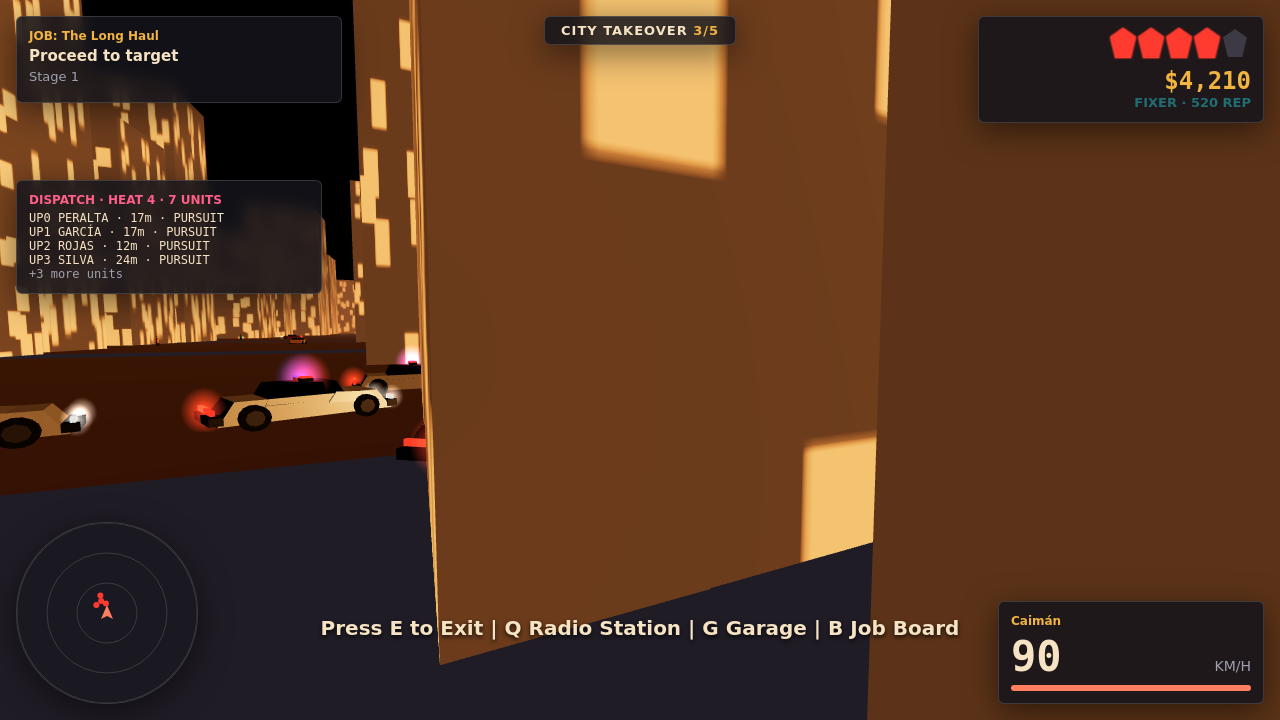
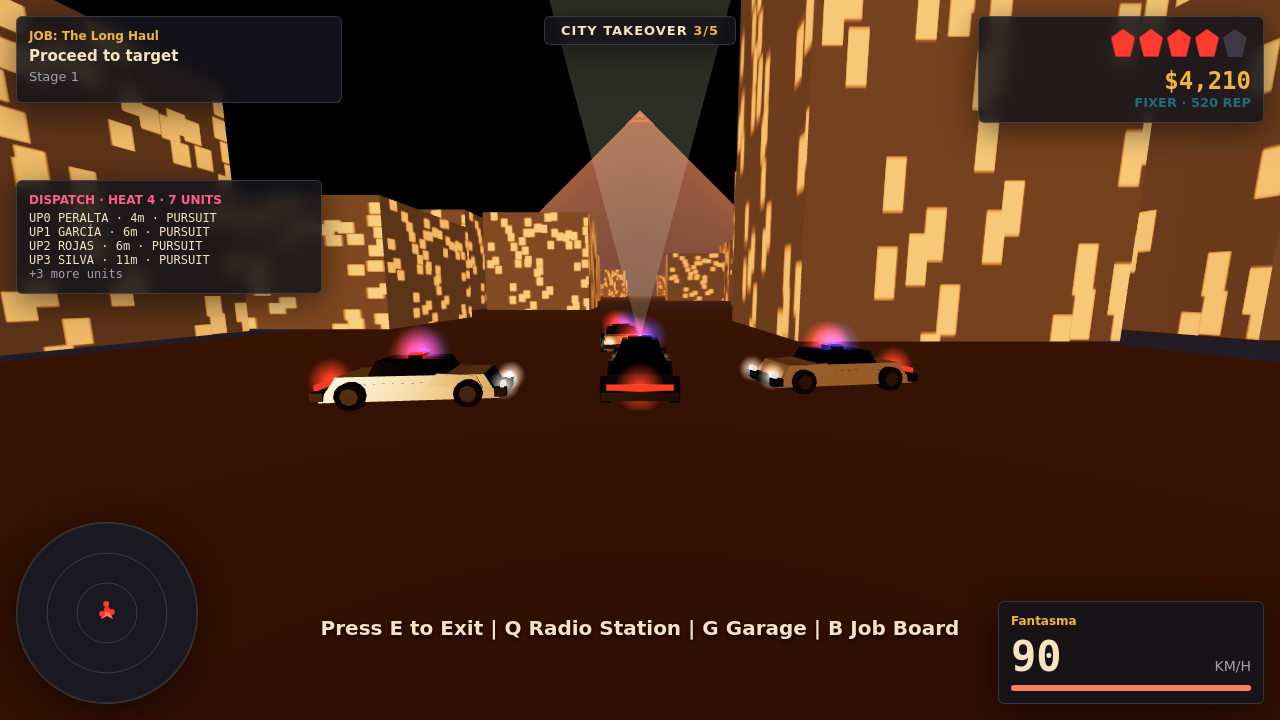
Lively M16: cover reshoot at spawn boulevard

diff --git a/game/main.js b/game/main.js
@@ -286,6 +286,23 @@ window.__calderaTest = {
     }
     return results;
   },
+  projectCar() {
+    camera.updateMatrixWorld();
+    if (!player.car || !player.car.mesh) return null;
+    const w = renderer.domElement.width || window.innerWidth;
+    const h = renderer.domElement.height || window.innerHeight;
+    const v = new THREE.Vector3();
+    player.car.mesh.getWorldPosition(v);
+    v.project(camera);
+    const sx = (v.x * 0.5 + 0.5) * w;
+    const sy = (-(v.y * 0.5) + 0.5) * h;
+    const inFrustum = v.z >= -1 && v.z <= 1 && sx >= 0 && sx <= w && sy >= 0 && sy <= h;
+    return {
+      x: Math.round((sx / w) * 100),
+      y: Math.round((sy / h) * 100),
+      inFrustum
+    };
+  },
   projectPeds() {
     camera.updateMatrixWorld();
     const results = [];
